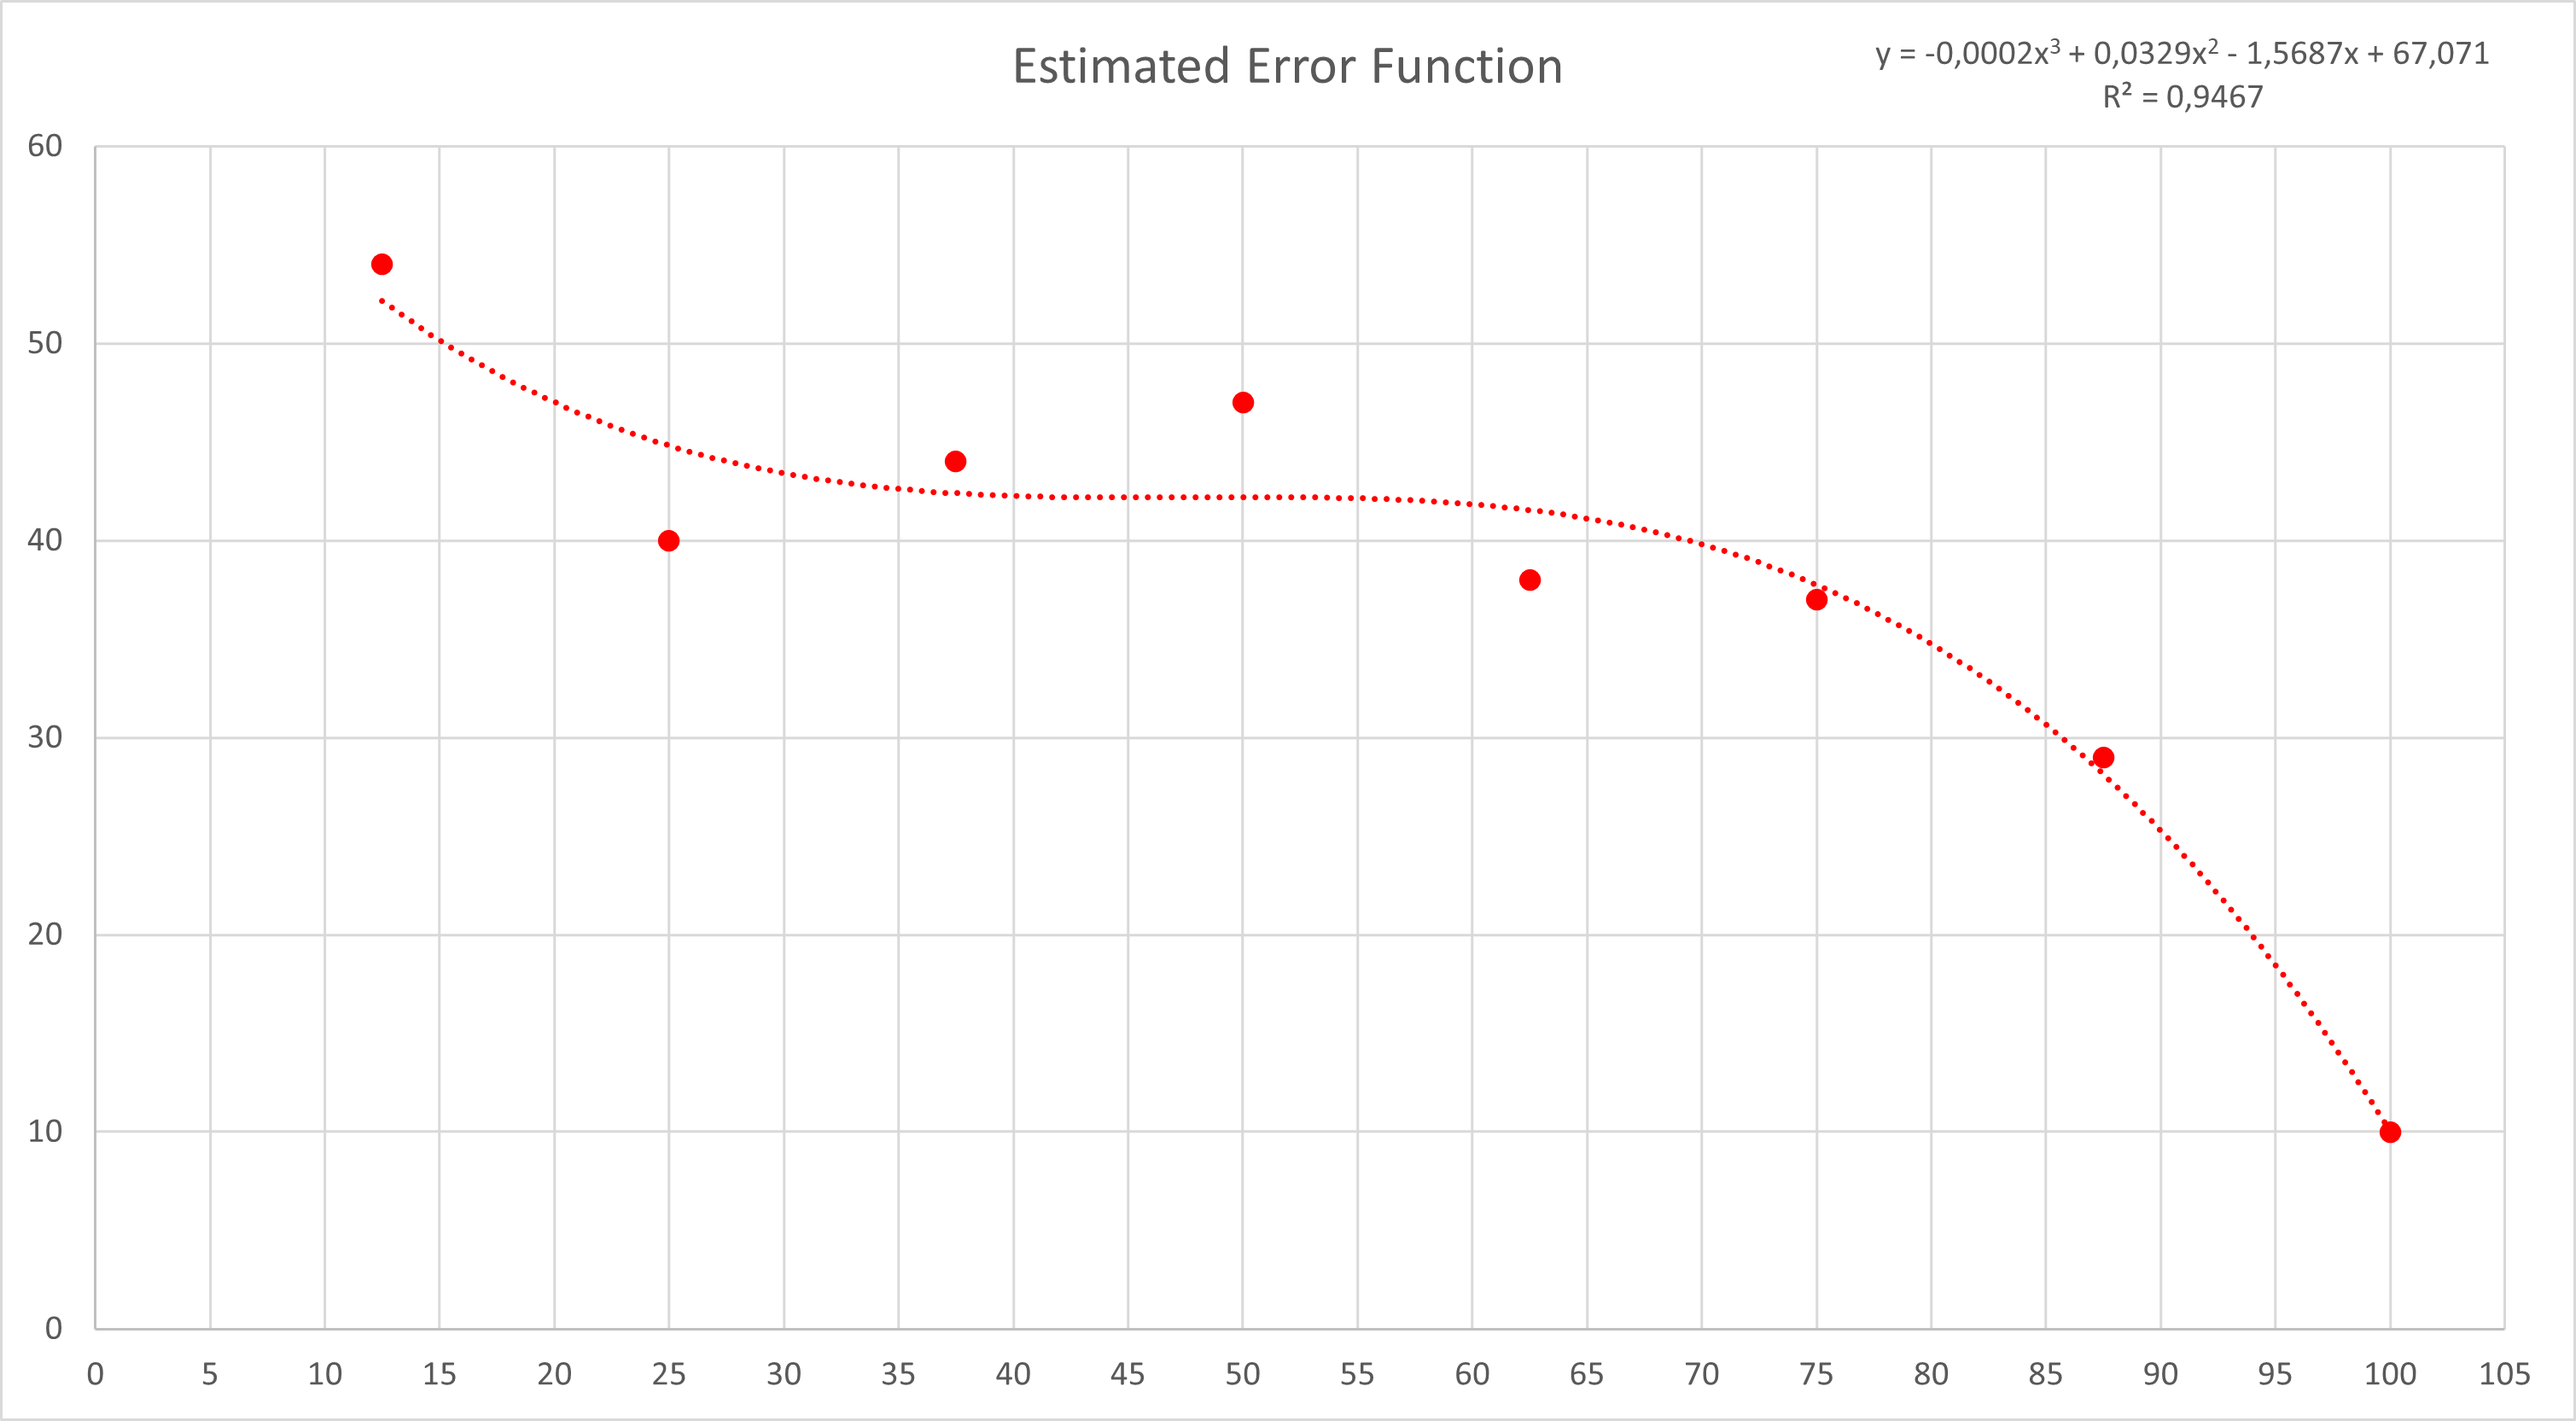
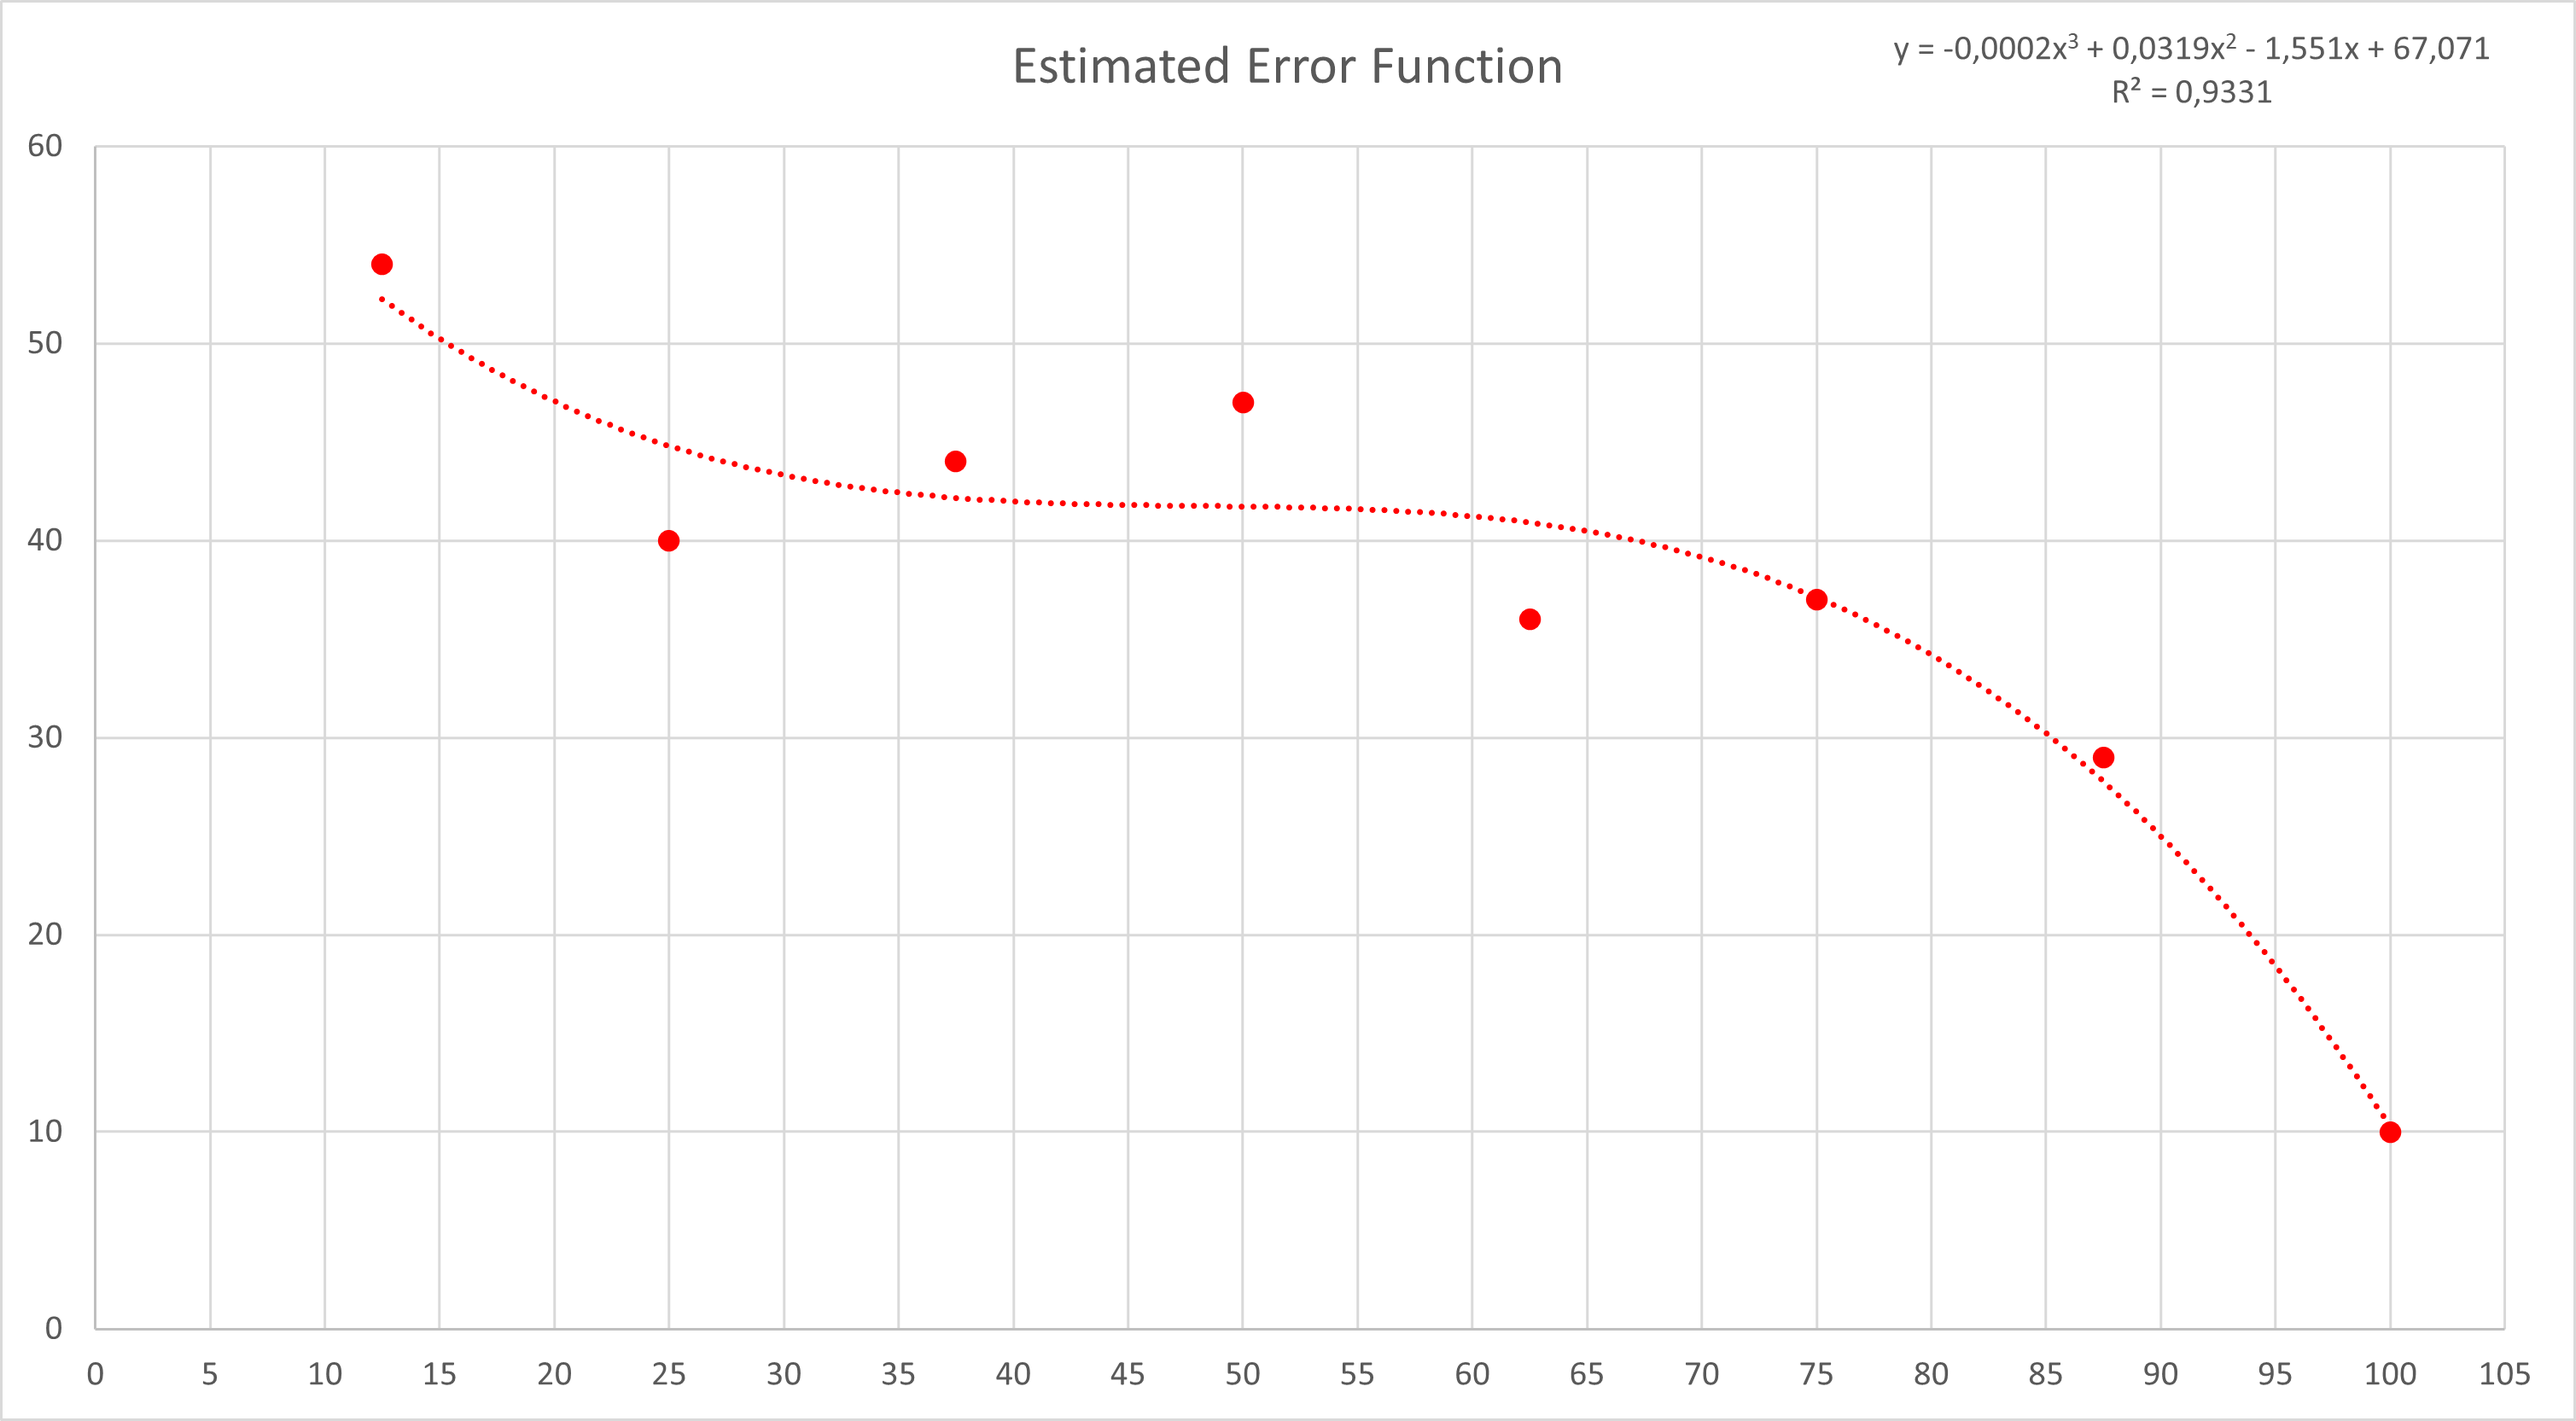
Add graphs and tables to the appendix

diff --git a/project_report/tex/appendix/batch_data.tex b/project_report/tex/appendix/batch_data.tex
@@ -1,0 +1,155 @@
+\subsection{Batch Data}\label{app:batch_data}
+
+\begin{table}[ht]
+     \begin{tabularx}{\textwidth}{|>{\RaggedRight}X|>{\RaggedRight}X|>{\RaggedRight}X|>{\RaggedRight}X|>{\RaggedRight}X|>{\RaggedRight}X|}
+     \hline
+     \textbf{Pilsner} & \textbf{Amount To Produce} & \textbf{Machine Speed} & \textbf{Normalised Machine Speed} & \textbf{Accepted} & \textbf{Rejected}\\
+     \hline
+     \textbf{Batch 1} & 100 & 600 & 100,00 & 41 & 59 \\
+     \hline
+     \textbf{Batch 2} & 100 & 550 & 91,67 & 66 & 34 \\
+     \hline
+     \textbf{Batch 3} & 100 & 500 & 83,33 & 78 & 22 \\
+     \hline
+     \textbf{Batch 4} & 100 & 450 & 75,00 & 92 & 8 \\
+     \hline
+     \textbf{Batch 5} & 100 & 400 & 66,67 & 97 & 3 \\
+     \hline
+     \textbf{Batch 6} & 100 & 350 & 58,33 & 97 & 3 \\
+     \hline
+     \textbf{Batch 7} & 100 & 300 & 50,00 & 98 & 2 \\
+     \hline
+     \textbf{Batch 8} & 100 & 250 & 41,67 & 99 & 1 \\
+     \hline
+     \textbf{Batch 9} & 100 & 200 & 33,33 & 99 & 1 \\
+     \hline
+     \textbf{Batch 10} & 100 & 150 & 25,00 & 100 & 0 \\
+     \hline
+     \textbf{Batch 11} & 100 & 100 & 16,67 & 99 & 1 \\
+     \hline
+     \textbf{Batch 12} & 100 & 50 & 8,33 & 100 & 0 \\
+     \hline
+    \end{tabularx}
+    \caption{Batch Data: Pilsner}
+    \label{table:batch_pilsner}
+\end{table}
+
+\begin{table}[ht]
+     \begin{tabularx}{\textwidth}{|>{\RaggedRight}X|>{\RaggedRight}X|>{\RaggedRight}X|>{\RaggedRight}X|>{\RaggedRight}X|>{\RaggedRight}X|}
+     \hline
+     \textbf{Wheat} & \textbf{Amount To Produce} & \textbf{Machine Speed} & \textbf{Normalised Machine Speed} & \textbf{Accepted} & \textbf{Rejected}\\
+     \hline
+     \textbf{Batch 1} & 100 & 300 & 100,00 & 0 & 100 \\
+     \hline
+     \textbf{Batch 2} & 100 & 250 & 83,33 & 17 & 83 \\
+     \hline
+     \textbf{Batch 3} & 100 & 200 & 66,67 & 36 & 64 \\
+     \hline
+     \textbf{Batch 4} & 100 & 150 & 50,00 & 53 & 47 \\
+     \hline
+     \textbf{Batch 5} & 100 & 100 & 33,33 & 64 & 36 \\
+     \hline
+     \textbf{Batch 6} & 100 & 50 & 16,67 & 84 & 16 \\
+     \hline
+     \textbf{Batch 7} & 100 & 25 & 8,33 & 94 & 6 \\
+     \hline
+     \textbf{Batch 8} & 100 & 12 & 4,00 & 98 & 2 \\
+     \hline
+    \end{tabularx}
+    \caption{Batch Data: Wheat}
+    \label{table:batch_wheat}
+\end{table}
+
+\begin{table}[ht]
+     \begin{tabularx}{\textwidth}{|>{\RaggedRight}X|>{\RaggedRight}X|>{\RaggedRight}X|>{\RaggedRight}X|>{\RaggedRight}X|>{\RaggedRight}X|}
+     \hline
+     \textbf{IPA} & \textbf{Amount To Produce} & \textbf{Machine Speed} & \textbf{Normalised Machine Speed} & \textbf{Accepted} & \textbf{Rejected}\\
+     \hline
+     \textbf{Batch 1} & 100 & 150 & 100,00 & 0 & 100 \\
+     \hline
+     \textbf{Batch 2} & 100 & 125 & 83,33 & 42 & 58 \\
+     \hline
+     \textbf{Batch 3} & 100 & 100 & 66,67 & 80 & 20 \\
+     \hline
+     \textbf{Batch 4} & 100 & 75 & 50,00 & 95 & 5 \\
+     \hline
+     \textbf{Batch 5} & 100 & 50 & 33,33 & 98 & 2 \\
+     \hline
+    \end{tabularx}
+    \caption{Batch Data: IPA}
+    \label{table:batch_ipa}
+\end{table}
+
+
+
+
+% TODO: UPDATE THE ERROR FUNCTION PNG FOR THE STOUT
+
+\begin{table}[ht]
+     \begin{tabularx}{\textwidth}{|>{\RaggedRight}X|>{\RaggedRight}X|>{\RaggedRight}X|>{\RaggedRight}X|>{\RaggedRight}X|>{\RaggedRight}X|}
+     \hline
+     \textbf{Stout} & \textbf{Amount To Produce} & \textbf{Machine Speed} & \textbf{Normalised Machine Speed} & \textbf{Accepted} & \textbf{Rejected}\\
+     \hline
+     \textbf{Batch 1} & 100 & 200 & 100,00 & 90 & 10 \\
+     \hline
+     \textbf{Batch 2} & 100 & 175 & 87,50 & 71 & 29 \\
+     \hline
+     \textbf{Batch 3} & 100 & 150 & 75,00 & 63 & 37 \\
+     \hline
+     \textbf{Batch 4} & 100 & 125 & 62,50 & 64 & 36 \\
+     \hline
+     \textbf{Batch 5} & 100 & 100 & 50,00 & 53 & 47 \\
+     \hline
+     \textbf{Batch 6} & 100 & 75 & 37,50 & 56 & 44 \\
+     \hline
+     \textbf{Batch 7} & 100 & 50 & 25,00 & 60 & 40 \\
+     \hline
+     \textbf{Batch 8} & 100 & 25 & 12,50 & 46 & 54 \\
+     \hline
+    \end{tabularx}
+    \caption{Batch Data: Stout}
+    \label{table:batch_stout}
+\end{table}
+
+\begin{table}[ht]
+     \begin{tabularx}{\textwidth}{|>{\RaggedRight}X|>{\RaggedRight}X|>{\RaggedRight}X|>{\RaggedRight}X|>{\RaggedRight}X|>{\RaggedRight}X|}
+     \hline
+     \textbf{Ale} & \textbf{Amount To Produce} & \textbf{Machine Speed} & \textbf{Normalised Machine Speed} & \textbf{Accepted} & \textbf{Rejected}\\
+     \hline
+     \textbf{Batch 1} & 100 & 100 & 100,00 & 64 & 36 \\
+     \hline
+     \textbf{Batch 2} & 100 & 75 & 75,00 & 84 & 16 \\
+     \hline
+     \textbf{Batch 3} & 100 & 50 & 50,00 & 96 & 4 \\
+     \hline
+     \textbf{Batch 4} & 100 & 25 & 25,00 & 99 & 1 \\
+     \hline
+     \textbf{Batch 5} & 100 & 15 & 15,00 & 97 & 3 \\
+     \hline
+    \end{tabularx}
+    \caption{Batch Data: Ale}
+    \label{table:batch_ale}
+\end{table}
+
+\afterpage{
+\begin{table}[ht]
+     \begin{tabularx}{\textwidth}{|>{\RaggedRight}X|>{\RaggedRight}X|>{\RaggedRight}X|>{\RaggedRight}X|>{\RaggedRight}X|>{\RaggedRight}X|}
+     \hline
+     \textbf{Alcohol Free} & \textbf{Amount To Produce} & \textbf{Machine Speed} & \textbf{Normalised Machine Speed} & \textbf{Accepted} & \textbf{Rejected}\\
+     \hline
+     \textbf{Batch 1} & 100 & 125 & 100,00 & 35 & 65 \\
+     \hline
+     \textbf{Batch 2} & 100 & 100 & 80,00 & 60 & 50 \\
+     \hline
+     \textbf{Batch 3} & 100 & 75 & 60,00 & 66 & 34 \\
+     \hline
+     \textbf{Batch 4} & 100 & 50 & 40,00 & 72 & 28 \\
+     \hline
+     \textbf{Batch 5} & 100 & 25 & 20,00 & 82 & 18 \\
+     \hline
+    \end{tabularx}
+    \caption{Batch Data: Alcohol Free}
+    \label{table:batch_alcohol_free}
+\end{table}
+\clearpage}
+}

diff --git a/project_report/tex/implementation.tex b/project_report/tex/implementation.tex
@@ -129,7 +129,7 @@ speed = 200, accepted products = 97.
 \[OEE = \left(\frac{97\cdot0,2}{30}\right)\cdot100 = 64,67\%\]\\
 
 The OEE for this specific batch would be 64,67\%, which means that the
-production line can be optimised further. \myworries{Add some more here}
+production line can be optimised further if needed.
 
 \subsection{Error Function}
 The error function associated with each product type is to be estimated. For
@@ -137,9 +137,7 @@ this several batches should be produced to have some data to make the
 calculations with. The values used to estimate the error function is the amount
 of products to produce, the machine speed and the amount of rejected products.
 These values are used to make an expression, that resembles the error function. 
-All data can be found in Appendix \myworries{??}.
-
-% TODO: insert batch data in appendix
+The data used can be found in Appendix \ref{app:batch_data}.
 
 \begin{figure}[ht]
 	\centering
@@ -151,8 +149,8 @@ All data can be found in Appendix \myworries{??}.
 The estimated error function seen in Figure \ref{figure:ef_pilsner} gives an
 idea of when the beer production machine starts to produce many rejected
 products. All the estimated error functions for the products the machine can
-produce can be seen in Table \ref{table:eef}.
-% TODO: add text about the table below
+produce can be seen in Table \ref{table:eef} and the graphs can be found in
+Appendix \ref{app:error_function_graphs}.
 
 \begin{table}[ht]
      \begin{tabularx}{\textwidth}{|>{\RaggedRight}p{3cm}|>{\RaggedRight}X|>{\RaggedRight}p{3cm}|}
@@ -165,7 +163,7 @@ produce can be seen in Table \ref{table:eef}.
      \hline
      IPA & \(y = -0,0001x^3 + 0,0548x^2 - 3,7529x + 72\) & \(R^2 = 0,9981\) \\
      \hline
-     Stout & \(y = -0,0002x^3 + 0,0329x^2 - 1,5687x + 67,071\) & \(R^2 = 0,9331\) \\
+     Stout & \(y = -0,0002x^3 + 0,0319x^2 - 1,551x + 67,071\) & \(R^2 = 0,9331\) \\
      \hline
      Ale & \(y = -2E-05x^3 + 0,0099x^2 - 0,5615x + 9,1857\) & \(R^2 = 1\) \\
      \hline
@@ -252,6 +250,6 @@ This is done for all product types, and the result can be seen in Table
 
 The reason for the result of the stout is, that the function has no local maxima
 in the range (0 to 200) but it keeps increasing, as seen in the graph for the
-stout in Appendix \myworries{??}. This means that the faster the machine speed
+stout in Appendix \ref{app:ops_graphs}. This means that the faster the machine speed
 the better, which is why the optimal production speed is the maximal machine
 speed.

diff --git a/project_report/tex/appendix/error_function_graphs.tex b/project_report/tex/appendix/error_function_graphs.tex
@@ -1,0 +1,31 @@
+\subsection{Error Function Graphs}\label{app:error_function_graphs}
+
+\begin{figure}[H]
+	\centering
+	\includegraphics[width=1\linewidth]{images/errorfunction/wheat.png}
+	\caption{Estimated Error Function for Wheat}
+\end{figure}
+
+\begin{figure}[H]
+	\centering
+	\includegraphics[width=1\linewidth]{images/errorfunction/ipa.png}
+	\caption{Estimated Error Function for IPA}
+\end{figure}
+
+\begin{figure}[H]
+	\centering
+	\includegraphics[width=1\linewidth]{images/errorfunction/stout.png}
+	\caption{Estimated Error Function for Stout}
+\end{figure}
+
+\begin{figure}[H]
+	\centering
+	\includegraphics[width=1\linewidth]{images/errorfunction/ale.png}
+	\caption{Estimated Error Function for Ale}
+\end{figure}
+
+\begin{figure}[H]
+	\centering
+	\includegraphics[width=1\linewidth]{images/errorfunction/alcohol_free.png}
+	\caption{Estimated Error Function for Alcohol Free}
+\end{figure}

diff --git a/project_report/tex/appendix/ops_graphs.tex b/project_report/tex/appendix/ops_graphs.tex
@@ -1,0 +1,31 @@
+\subsection{Optimal Production Speed Graphs}\label{app:ops_graphs}
+
+\begin{figure}[H]
+	\centering
+	\includegraphics[width=1\linewidth]{images/ops/wheat.png}
+	\caption{Optimal Production Speed for Wheat}
+\end{figure}
+
+\begin{figure}[H]
+	\centering
+	\includegraphics[width=1\linewidth]{images/ops/ipa.png}
+	\caption{Optimal Production Speed for IPA}
+\end{figure}
+
+\begin{figure}[H]
+	\centering
+	\includegraphics[width=1\linewidth]{images/ops/stout.png}
+	\caption{Optimal Production Speed for Stout}
+\end{figure}
+
+\begin{figure}[H]
+	\centering
+	\includegraphics[width=1\linewidth]{images/ops/ale.png}
+	\caption{Optimal Production Speed for Ale}
+\end{figure}
+
+\begin{figure}[H]
+	\centering
+	\includegraphics[width=1\linewidth]{images/ops/alcohol_free.png}
+	\caption{Optimal Production Speed for Alcohol Free}
+\end{figure}

diff --git a/project_report/report.tex b/project_report/report.tex
@@ -178,6 +178,11 @@
     % % \printbibliography
     % \newpage
     
+    % Removes appendix tables and figures from lof/lot
+    \let\svaddcontentsline\addcontentsline
+    \renewcommand\addcontentsline[3]{%
+        \ifthenelse{\equal{#1}{lof}}{}%
+        {\ifthenelse{\equal{#1}{lot}}{}{\svaddcontentsline{#1}{#2}{#3}}}}
     % Removes page numbering
     \pagenumbering{gobble}
     \appendix % Bruges til bilag, så den laver bilag indholdfortegnelse og overskrifter

diff --git a/project_report/tex/appendix.tex b/project_report/tex/appendix.tex
@@ -4,3 +4,12 @@
 
 \input{tex/appendix/operation_contracts.tex}
 \newpage
+
+\input{tex/appendix/batch_data.tex}
+\newpage
+
+\input{tex/appendix/error_function_graphs.tex}
+\newpage
+
+\input{tex/appendix/ops_graphs.tex}
+\newpage
